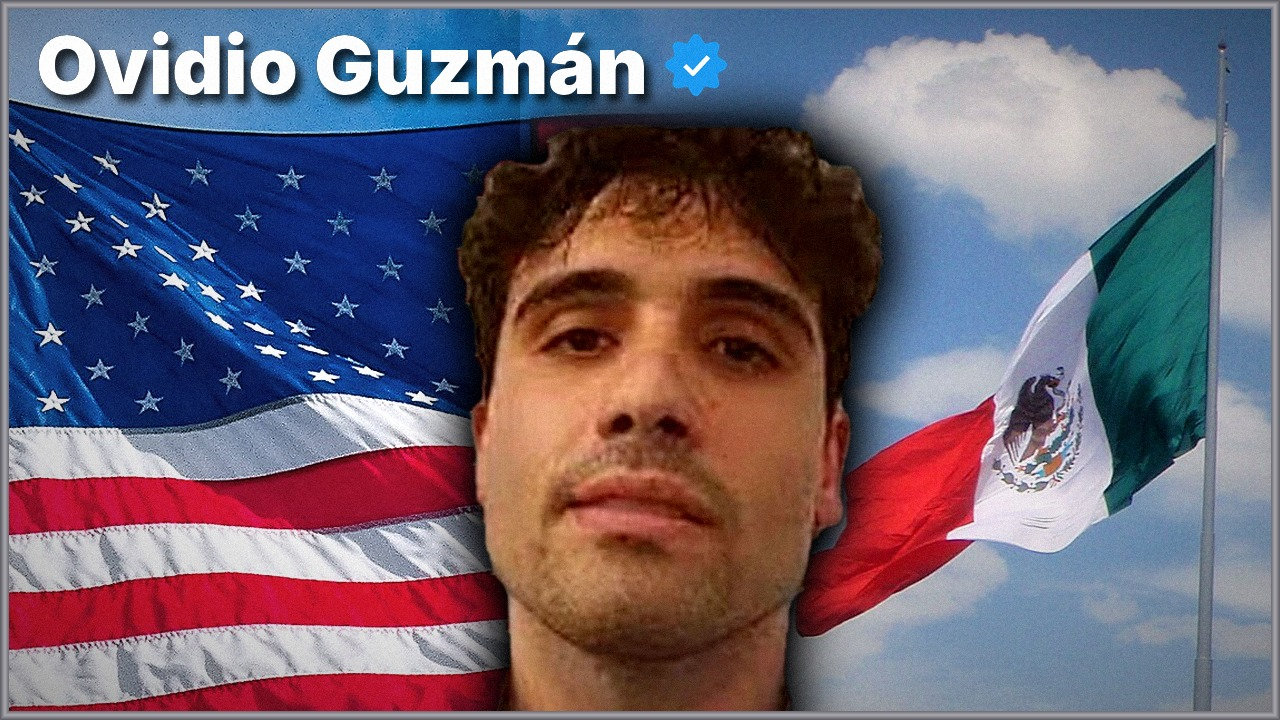
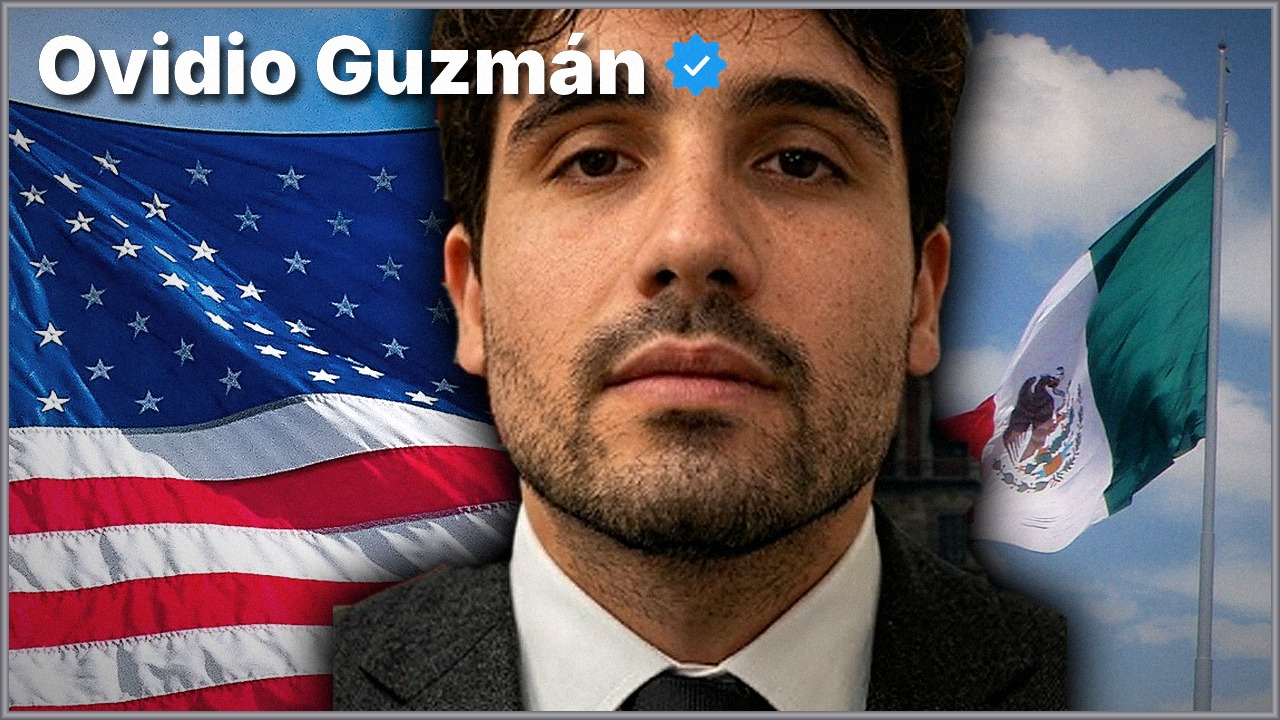
Miniatura Ovidio con la imagen de busto con traje del usuario
Claude-Session: https://claude.ai/code/session_011QfsHNEVyrMTuqwhNXZ9Nu

diff --git a/la_cosa_nuestra/miniaturas/recorte_ovidio_traje.py b/la_cosa_nuestra/miniaturas/recorte_ovidio_traje.py
@@ -1,0 +1,33 @@
+#!/usr/bin/env python3
+"""Recorta a Ovidio (busto con traje) de assets/ovidio_traje.png -> assets/ovidio_traje_recorte.png.
+La imagen viene cortada arriba (el pelo toca el borde y hay restos de letras): se descartan las primeras filas."""
+import os, cv2, numpy as np
+AQUI = os.path.dirname(os.path.abspath(__file__))
+a = cv2.imread(os.path.join(AQUI, "assets", "ovidio_traje.png"))[7:, :]
+F = 4
+a = np.vstack([np.zeros((40, a.shape[1], 3), np.uint8) + a[0:1].mean(axis=(0, 1)).astype(np.uint8), a])      # margen arriba
+big = cv2.resize(a, None, fx=F, fy=F, interpolation=cv2.INTER_CUBIC)
+big = cv2.addWeighted(big, 1.35, cv2.GaussianBlur(big, (0, 0), 3), -0.35, 0)
+H, W = big.shape[:2]
+top = 40 * F
+mask = np.full((H, W), cv2.GC_PR_BGD, np.uint8)
+mask[:top - 6] = cv2.GC_BGD
+mask[top:, int(0.14 * W):int(0.86 * W)] = cv2.GC_PR_FGD
+mask[int(0.22 * H):, int(0.30 * W):int(0.72 * W)] = cv2.GC_FGD
+mask[int(0.90 * H):, int(0.05 * W):int(0.95 * W)] = cv2.GC_FGD
+bg = np.zeros((1, 65)); fg = np.zeros((1, 65))
+cv2.grabCut(big, mask, None, bg, fg, 10, cv2.GC_INIT_WITH_MASK)
+m = np.where((mask == 1) | (mask == 3), 255, 0).astype(np.uint8)
+m = cv2.morphologyEx(m, cv2.MORPH_CLOSE, cv2.getStructuringElement(cv2.MORPH_ELLIPSE, (21, 21)))
+m = cv2.morphologyEx(m, cv2.MORPH_OPEN, cv2.getStructuringElement(cv2.MORPH_ELLIPSE, (13, 13)))
+n, lab, st, _ = cv2.connectedComponentsWithStats(m)
+m = np.where(lab == 1 + np.argmax(st[1:, 4]), 255, 0).astype(np.uint8)
+# cupula de pelo reflejando las filas de abajo
+# la imagen viene cortada arriba (el pelo toca el borde): no se inventa pelo; en la miniatura el borde superior del cuadro hace de corte
+m[:top + 1] = 0
+m[top + 1:top + 3, :] = m[top + 3:top + 4, :]
+m = cv2.GaussianBlur(m, (0, 0), 2.4)
+out = cv2.cvtColor(big, cv2.COLOR_BGR2BGRA); out[..., 3] = m
+cv2.imwrite(os.path.join(AQUI, "assets", "ovidio_traje_recorte.png"), out)
+prev = np.full_like(big, (30, 30, 190)); al = (m / 255.0)[..., None]
+cv2.imwrite(os.environ.get("PREV", "/tmp/prev.jpg"), np.hstack([big, (big * al + prev * (1 - al)).astype(np.uint8)]))

diff --git a/la_cosa_nuestra/miniaturas/miniatura_banderas.py b/la_cosa_nuestra/miniaturas/miniatura_banderas.py
@@ -17,6 +17,15 @@ def rostro_ovidio(altura):
     return rgb.resize((int(rgb.width * altura / rgb.height), altura), Image.LANCZOS)
 
 
+def rostro_traje(altura):
+    """busto con traje (imagen del usuario); el pelo viene cortado arriba, asi que el borde del cuadro hace de corte"""
+    im = Image.open(A("ovidio_traje_recorte.png")).convert("RGBA")
+    ys, xs = np.nonzero(np.asarray(im.split()[3]) > 20)
+    im = im.crop((xs.min(), ys.min(), xs.max() + 1, ys.max() + 1))
+    rgb = realzar(im.convert("RGB").filter(ImageFilter.UnsharpMask(2, 70, 2)), 1.02, 1.08, 1.08); rgb.putalpha(im.split()[3])
+    return rgb.resize((int(rgb.width * altura / rgb.height), altura), Image.LANCZOS)
+
+
 def mitad(nombre, caja, w, h, k, rgb):
     im = cargar(nombre); x0, y0, x1, y1 = caja
     im = im.crop((int(im.width * x0), int(im.height * y0), int(im.width * x1), int(im.height * y1)))
@@ -64,9 +73,11 @@ def miniatura(variante="A"):
     m = Image.fromarray((np.tile(ramp, (H, 1)) * 255).astype(np.uint8))
     im.paste(der, (W - 760, 0)); im.paste(izq, (0, 0), m)
     im = vineta(im, 0.45)
-    cara = rostro_ovidio(610)
-    x = (W - cara.width) // 2 + 30
-    im = con_brillo(im, cara, (x, H - cara.height + 14), (0, 0, 0), radio=26, intens=0.85, borde=0)
+    cara = rostro_traje(760)
+    x = (W - cara.width) // 2 + 60
+    y = H - cara.height + 6                                  # negativo: el borde superior del cuadro corta el pelo
+    if y < 0: cara = cara.crop((0, -y, cara.width, cara.height)); y = 0
+    im = con_brillo(im, cara, (x, y), (0, 0, 0), radio=26, intens=0.85, borde=0)
     sz = 80; nombre = "Ovidio Guzmán"
     im = texto(im, (36, 16), nombre, sz, BLANCO, trazo=0, sombra=True, ancla="la")
     wtxt = ancho_texto(nombre, sz, 0)
